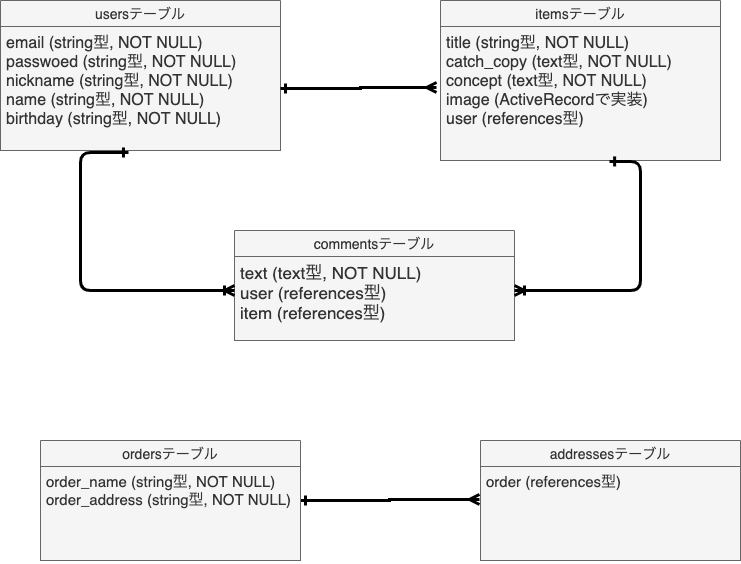
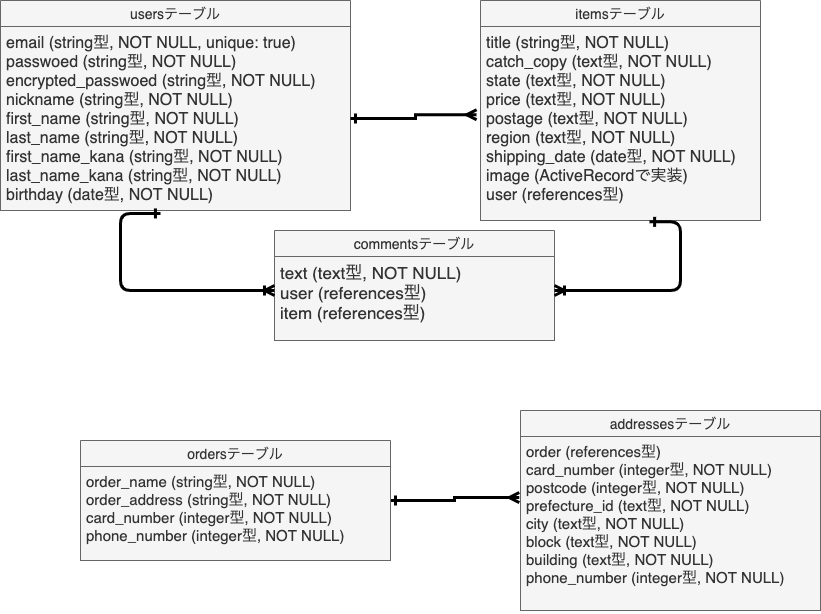
ER図とREADMEの編集

Changed region(s): [[0.0, 0.0, 0.9312, 0.5727], [0.0621, 0.6631, 1.0, 1.0], [0.776, 0.3316, 0.807, 0.3617]]

diff --git a/README.md b/README.md
@@ -1,12 +1,16 @@
 ## usersテーブル
 
-| Column           | Type               | Option                         |
-| -----------------| -------------------| -------------------------------|
-| email            | string             | null: false                    |
-| password         | string             | null: false                    |
-| nickname         | string             | null: false                    |
-| name             | string             | null: false                    |
-| birthday         | string             | null: false                    |
+| Column                    | Type               | Option                         |
+| --------------------------| -------------------| -------------------------------|
+| email                     | string             | null: false, unique: true      |
+| password                  | string             | null: false                    |
+| encrypted_password        | string             | null: false                    |
+| nickname                  | string             | null: false                    |
+| first_name                | string             | null: false                    |
+| last_name                 | string             | null: false                    |
+| first_name_kana           | string             | null: false                    |
+| last_name_kana            | string             | null: false                    |
+| birthday                  | date               | null: false                    |
 
 ## itemsテーブル
 
@@ -14,8 +18,12 @@
 | -----------------| -------------------| -------------------------------|
 | title            | string             | null: false                    |
 | catch_copy       | text               | null: false                    |
-| concept          | text               | null: false                    |
 | user             | references         | null: false, foreign_key: true |
+| state            | text               | null: false                    |
+| price            | text               | null: false                    |
+| postage          | text               | null: false                    |
+| region           | text               | null: false                    |
+| shipping_date    | date               | null: false                    |
 
 ## commentsテーブル
 
@@ -29,11 +37,21 @@
 
 | Column           | Type               | Option                         |
 | -----------------| -------------------| -------------------------------|
-| oreder_name      | string             | null: false                    |
+| order_name       | string             | null: false                    |
 | order_address    | string             | null: false                    |
+| card_number      | integer            | null: false                    |
+| phone_number     | integer            | null: false                    |
+
 
 ## addressesテーブル
 
 | Column           | Type               | Option                         |
 | -----------------| -------------------| -------------------------------|
 | oreder           | references         | null: false, foreign_key: true |
+| card_number      | integer            | null: false                    |
+| postcode         | integer            | null: false                    |
+| prefecture_id    | text               | null: false                    |
+| city             | text               | null: false                    |
+| block            | text               | null: false                    |
+| building         | text               | null: false                    |
+| phone_number     | integer            | null: false                    |
